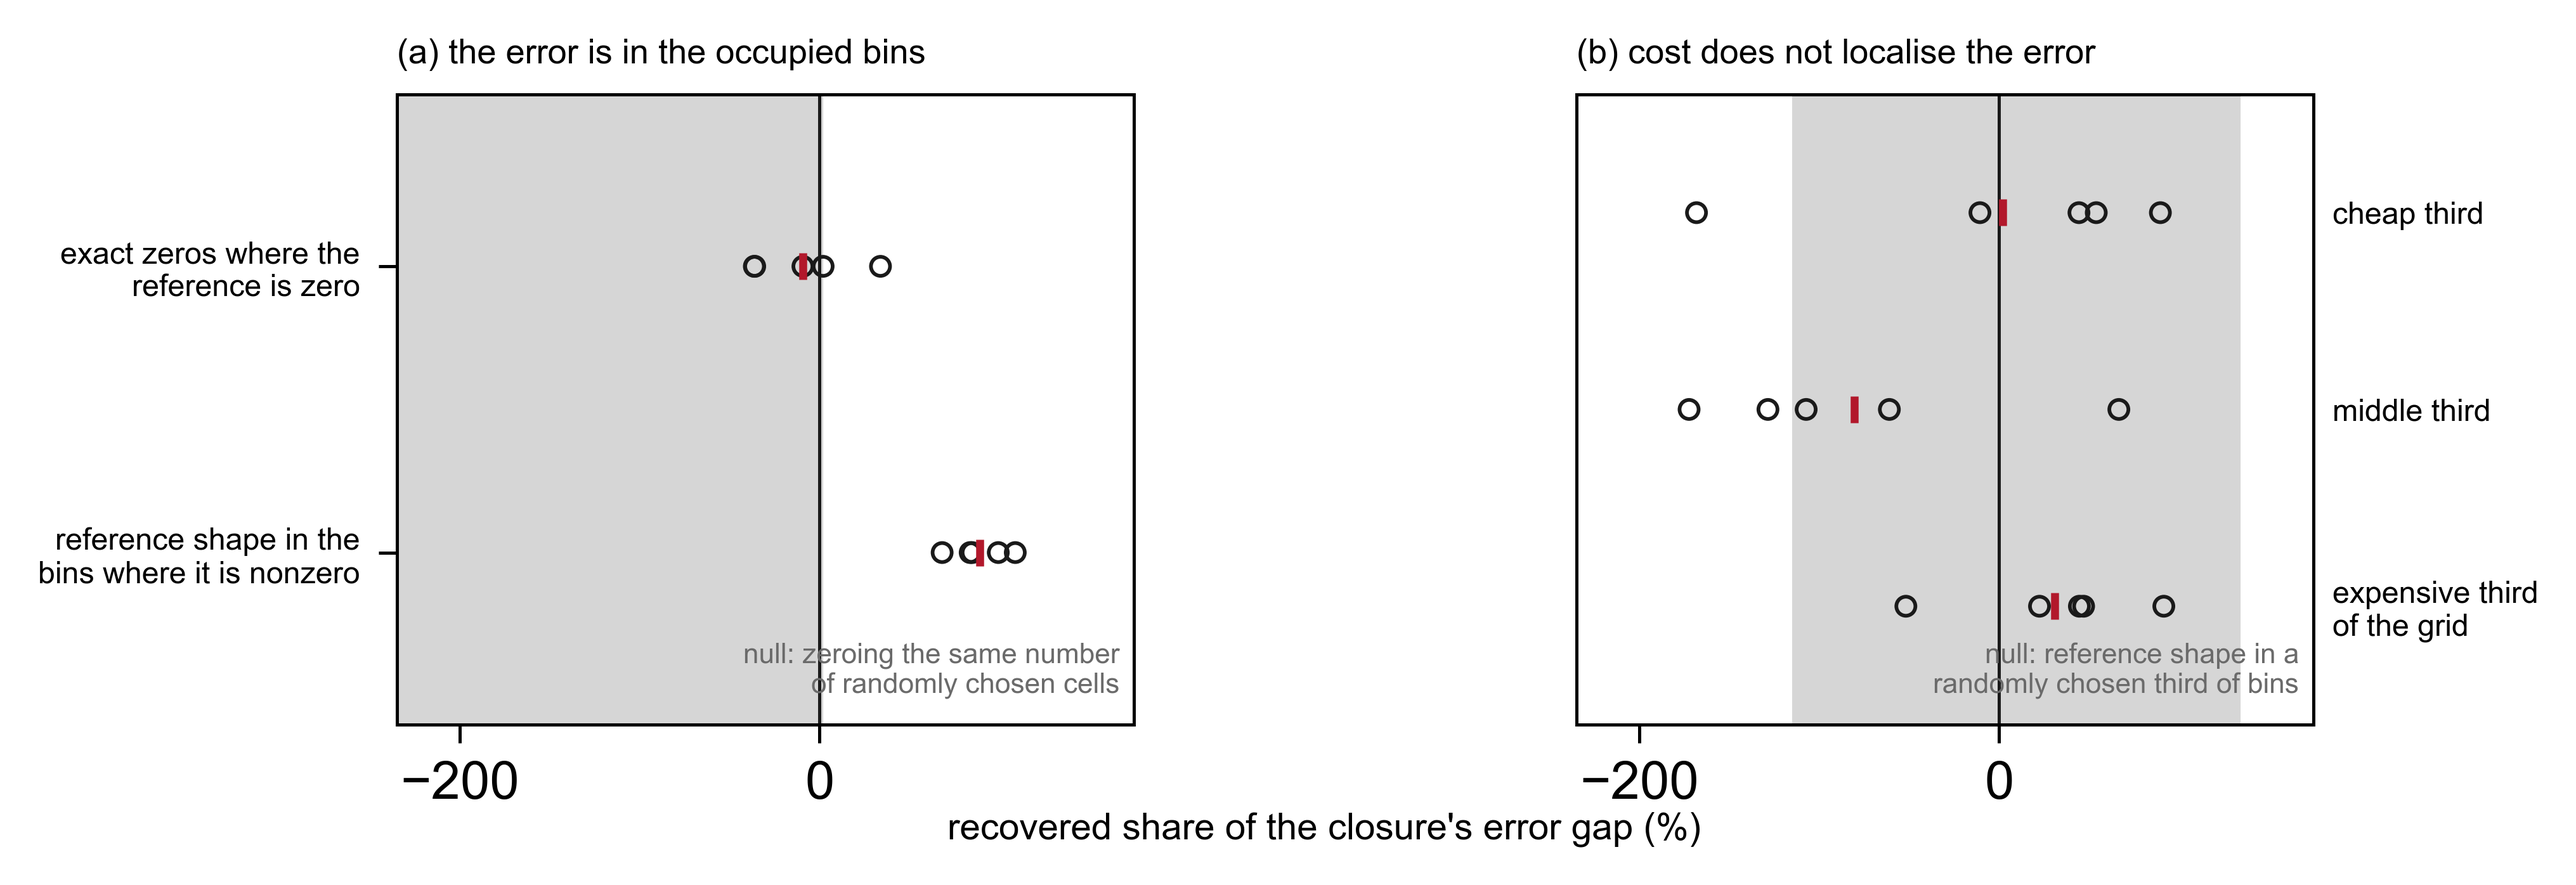
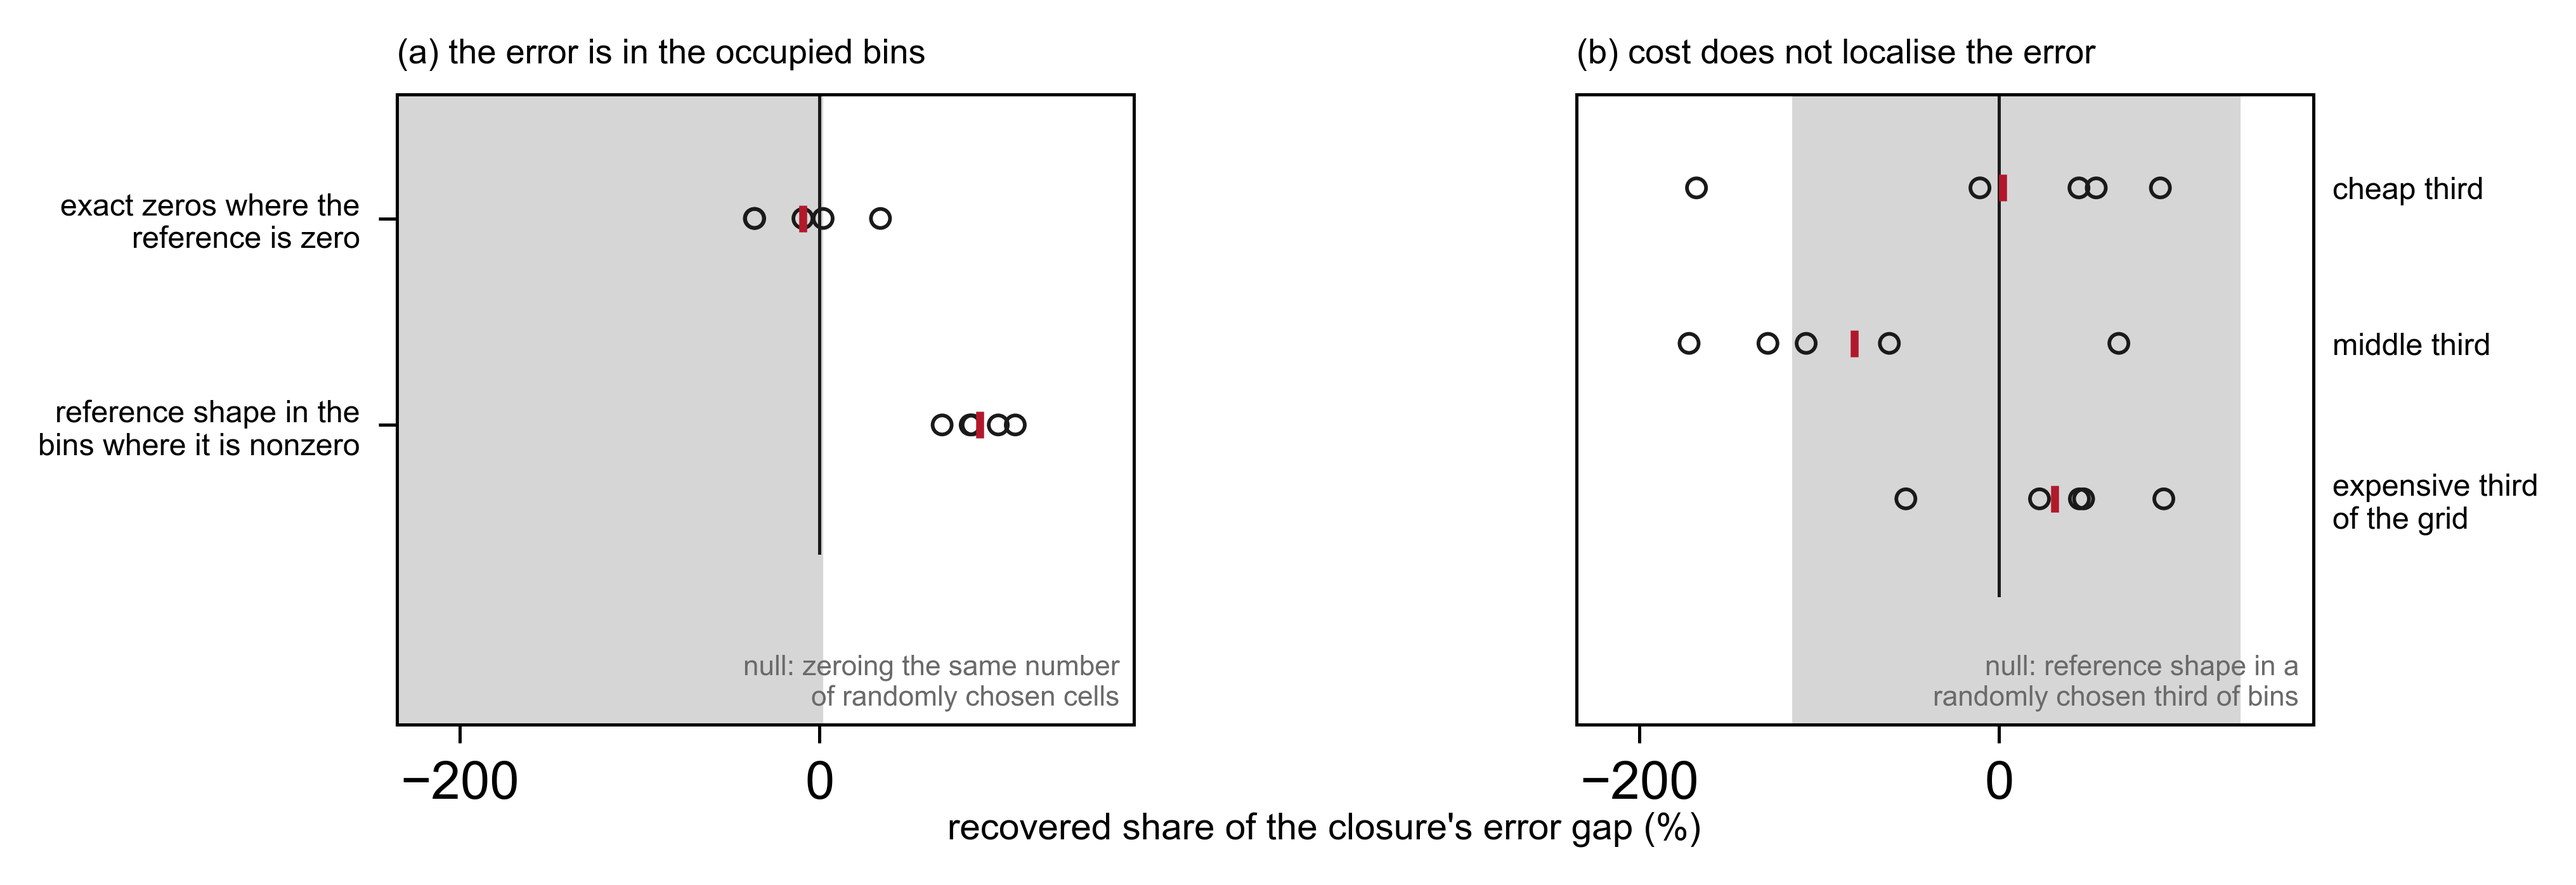
рисунок 5: подпись контроля больше не ложится на линию нуля
Линия нуля и линия среднего по нулю шли во всю высоту осей, а подпись "null: ..."
правым краем доходит левее x=0, поэтому в ОБОИХ подграфиках она лежала прямо на
линии. Внизу осей отведена чистая полоса: нижняя граница опущена с -0.6 до -1.45, а
обе вертикальные линии рисуются от доли высоты, соответствующей -0.62, и в полосу не
заходят.

Серая полоса контроля оставлена во всю высоту намеренно. Сначала я обрезал и её, но
тогда она обрывается в воздухе и читается как элемент данных, а не как фон; на линии
подпись не лежала ни в том, ни в другом варианте, поэтому выбран тот, который не
создаёт ложного сигнала.

Габарит файла 487.4 x 167.6 pt, то есть внутри предела 504 pt, о котором говорит
комментарий о ширине холста в самой функции. Проверено на полосе набора: страница 12,
подпись стоит чисто в обоих подграфиках.

diff --git a/scripts/analysis/make_intermediate_diagnostic_figures.py b/scripts/analysis/make_intermediate_diagnostic_figures.py
@@ -171,6 +171,13 @@ def fig_attribution(plt) -> None:
         gridspec_kw={"width_ratios": [1.0, 1.0], "wspace": 0.60})
 
     def strip(ax, rows, nulls, title, nulltext):
+        # ПОЛОСА ПОД ПОДПИСЬ КОНТРОЛЯ. Линия нуля и серая полоса шли во всю высоту осей, а
+        # подпись правым краем доходит левее x=0, так что она ложилась прямо на линию в обоих
+        # подграфиках. Низ осей опущен, и вертикальные элементы в отведённую полосу не заходят:
+        # ymin/ymax у axvline и axvspan задаются долей высоты осей, поэтому граница считается
+        # из того же (y_lo, y_hi), который ставится ниже.
+        y_lo, y_hi = -1.45, len(rows) - 0.4
+        floor = (-0.62 - y_lo) / (y_hi - y_lo)
         for i, (_, vals) in enumerate(rows):
             ax.scatter(100 * np.asarray(vals), [i] * len(vals), s=13, facecolors="none",
                        edgecolors=INK, linewidths=0.7, zorder=3)
@@ -178,13 +185,13 @@ def fig_attribution(plt) -> None:
         n = 100 * np.concatenate(nulls)
         lo, hi = np.percentile(n, [5, 95])
         ax.axvspan(lo, hi, color=GREY, zorder=0)
-        ax.axvline(100 * n.mean(), color=NULLC, lw=0.8, ls="--", zorder=1)
-        ax.axvline(0.0, color=INK, lw=0.6, zorder=2)
+        ax.axvline(100 * n.mean(), ymin=floor, ymax=1.0, color=NULLC, lw=0.8, ls="--", zorder=1)
+        ax.axvline(0.0, ymin=floor, ymax=1.0, color=INK, lw=0.6, zorder=2)
         ax.set_yticks(range(len(rows)))
         ax.set_yticklabels([lab for lab, _ in rows], fontsize=5.8)
-        ax.set_ylim(-0.6, len(rows) - 0.4)
+        ax.set_ylim(y_lo, y_hi)
         ax.set_title(title, loc="left", fontsize=6.5)
-        ax.text(0.98, 0.04, nulltext, transform=ax.transAxes, ha="right", va="bottom",
+        ax.text(0.98, 0.02, nulltext, transform=ax.transAxes, ha="right", va="bottom",
                 fontsize=5.3, color="#6a6a6a")
 
     strip(axa,
